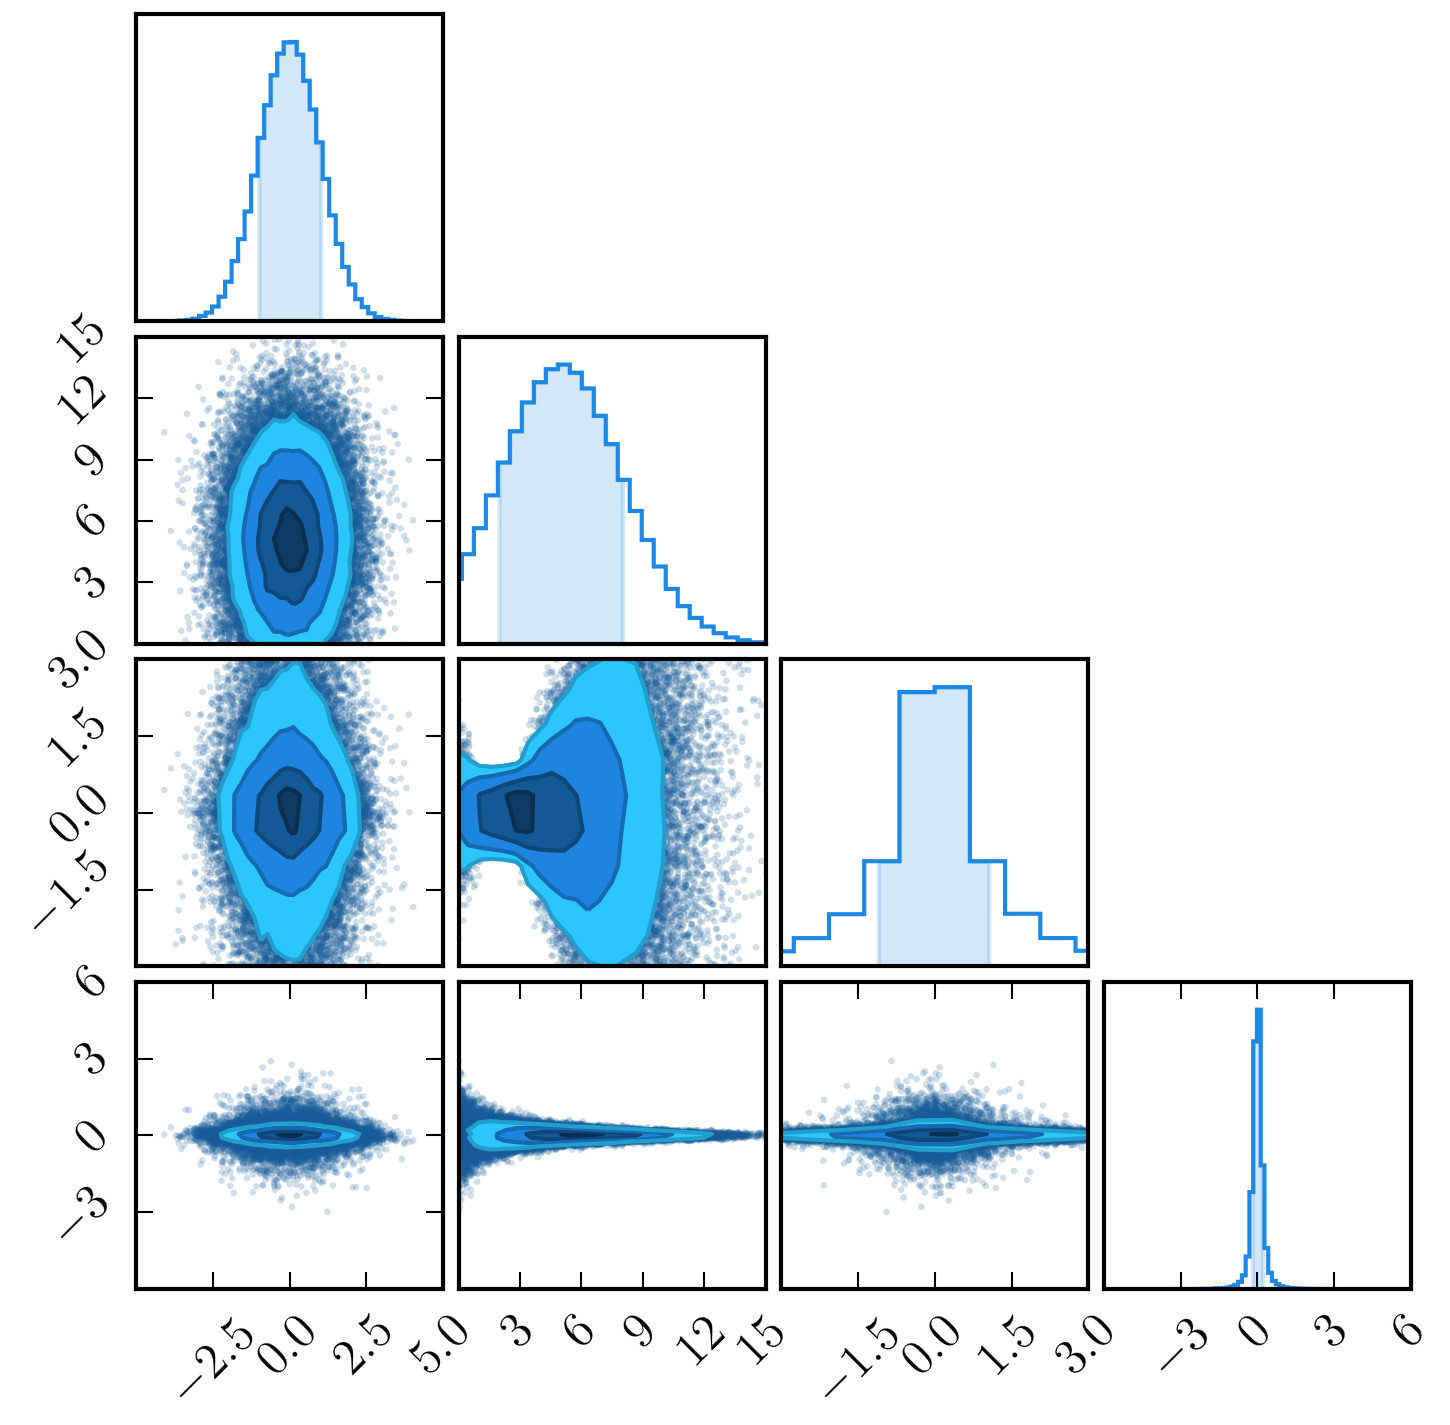
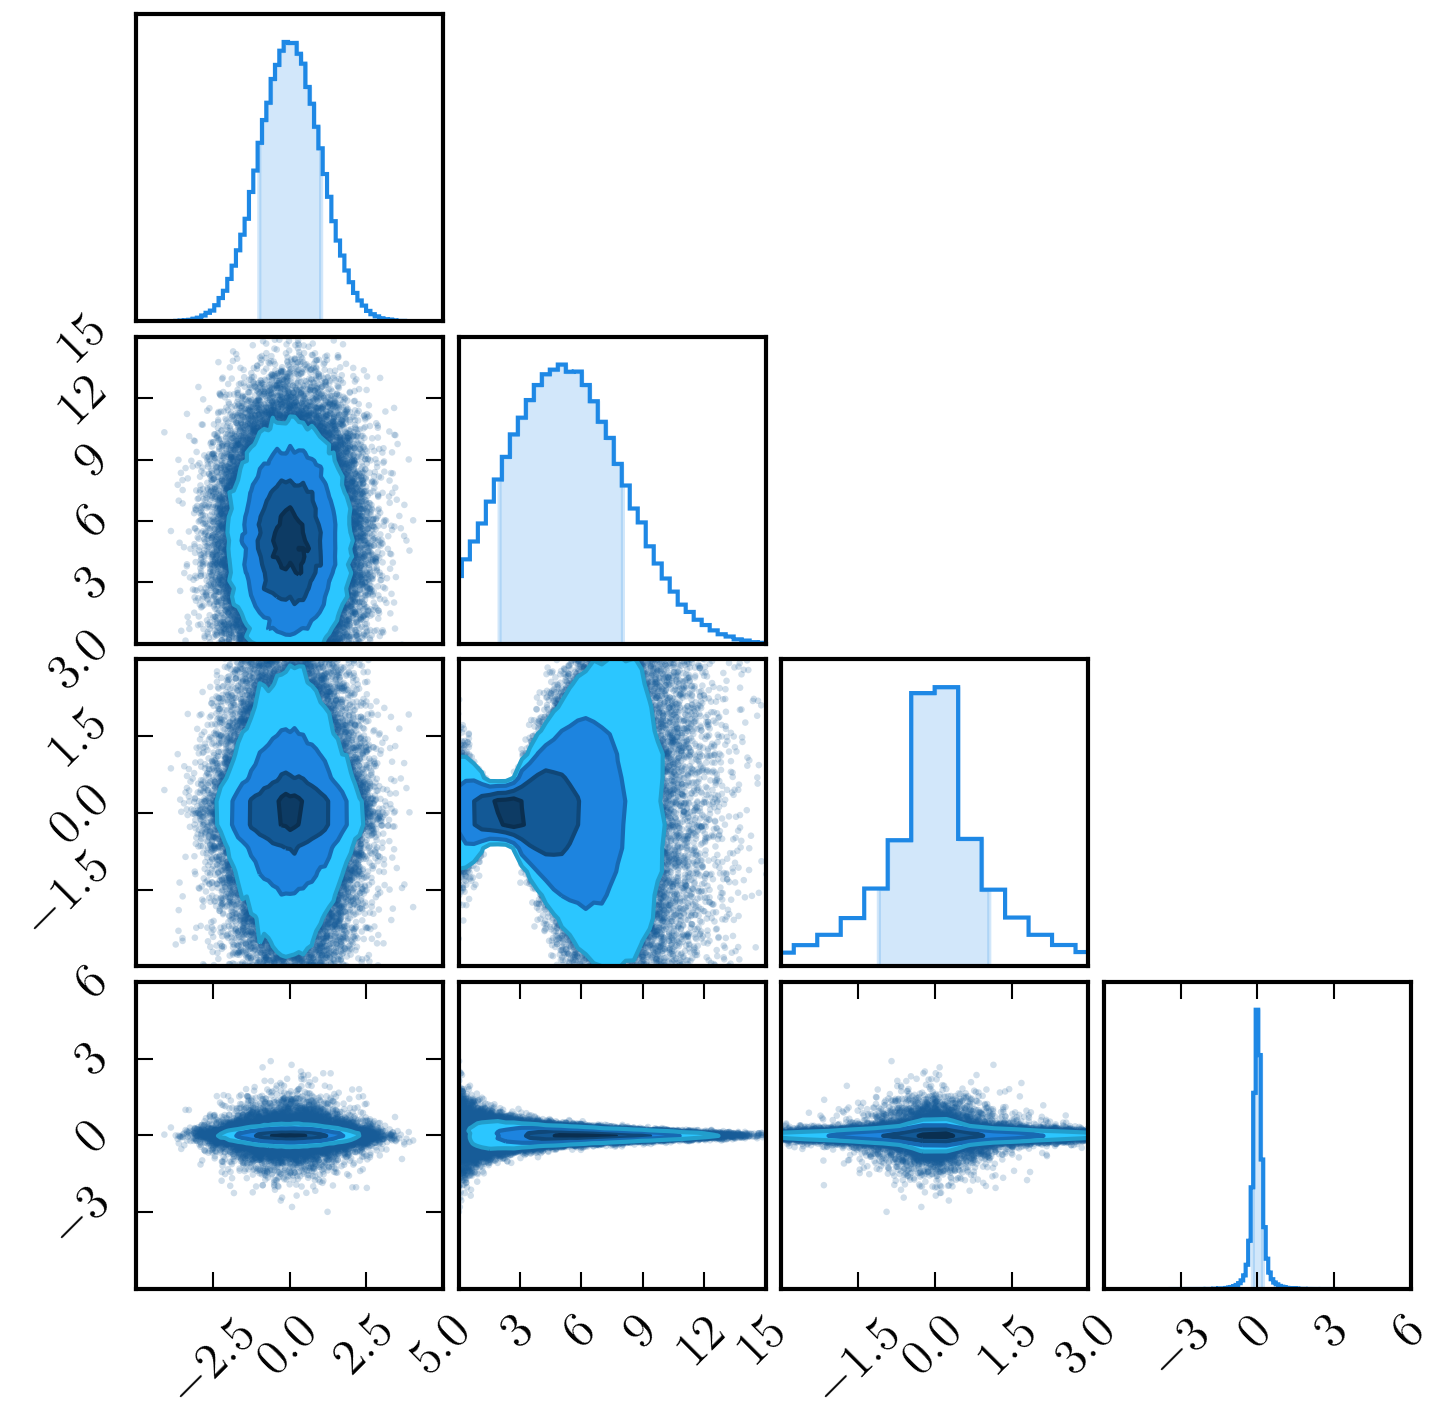
Allowing bins to scale with floats

diff --git a/dessn/chain/chain.py b/dessn/chain/chain.py
@@ -78,8 +78,10 @@ class ChainConsumer(object):
 
         Parameters
         ----------
-        bins : int, optional
+        bins : int|float, optional
             The number of bins to use. By default uses :math:`\frac{\sqrt{n}}{10}`, where :math:`n` are the number of data points.
+            Giving an integer will set the number of bins to the given value. Giving a float will scale the number of bins, such that
+            giving ``bins=1.5`` will result in using :math:`\frac{1.5\sqrt{n}}{10}` bins.
         flip : bool, optional
             Set to false if, when plotting only two parameters, you do not want it to rotate the histogram
             so that it is horizontal.
@@ -100,8 +102,12 @@ class ChainConsumer(object):
 
         if bins is None:
             bins = self._get_bins()
-        else:
+        elif isinstance(bins, float):
+            bins = [b * bins for b in self._get_bins()]
+        elif isinstance(bins, int):
             bins = [bins] * len(self.chains)
+        else:
+            raise ValueError("bins value is not a recognised class (float or int)")
         self.parameters_general["bins"] = bins
         self.parameters_general["max_ticks"] = max_ticks
         self.parameters_general["flip"] = flip

diff --git a/dessn/chain/demoVarious.py b/dessn/chain/demoVarious.py
@@ -144,11 +144,14 @@ class DemoVarious(object):
         r""" An example on using customised extents. Similarly to the example for truth values in
         :func:`various7_truth_values`, you can pass a list in, or a dictionary.
 
+        Also modifying the number of bins using a float value to scale, rather than set, the number of bins.
+
         .. figure::     ../dessn/chain/demoVarious8_Extents.png
             :align:     center
         """
         c = ChainConsumer()
         c.add_chain(self.data)
+        c.configure_general(bins=1.5)
         c.plot(filename="demoVarious8_Extents.png", extents=[(-5, 5), (0, 15), (-3, 3), (-6, 6)])
 
 
@@ -168,6 +171,6 @@ if __name__ == "__main__":
 
     # demo.various6_truth_values()
 
-    # demo.various7_rainbow()
+    demo.various7_rainbow()
 
-    # demo.various8_extents()
+    demo.various8_extents()
